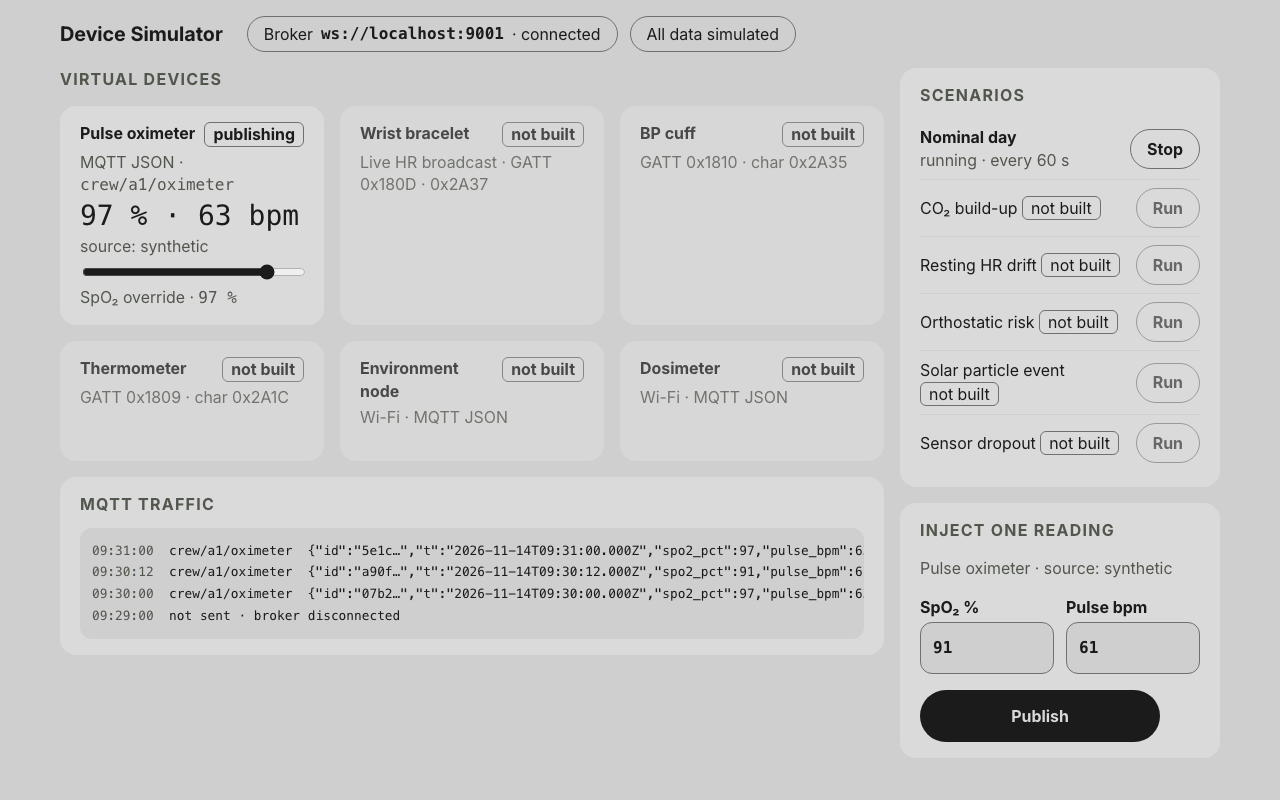
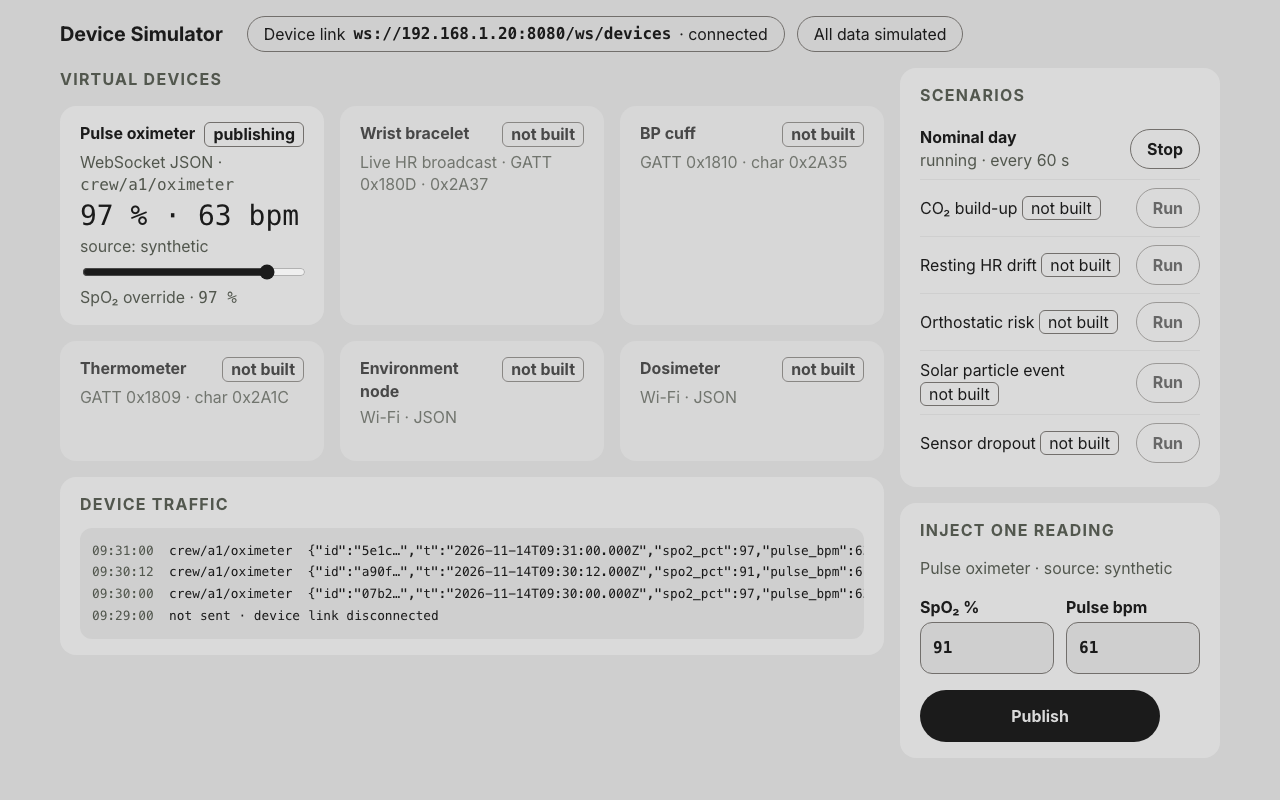
docs(simulator): mock labels for the WebSocket device link (#25)

diff --git a/ideas/mockups/src/11-simulator-oximeter.html b/ideas/mockups/src/11-simulator-oximeter.html
@@ -31,7 +31,7 @@
 <div class="sim">
   <div class="top">
     <h1>Device Simulator</h1>
-    <span class="pill">Broker <b class="num">ws://localhost:9001</b> · connected</span>
+    <span class="pill">Device link <b class="num">ws://192.168.1.20:8080/ws/devices</b> · connected</span>
     <span class="pill">All data simulated</span>
   </div>
   <div class="cols">
@@ -40,7 +40,7 @@
       <div class="devices">
         <section class="card dev">
           <h3>Pulse oximeter <span class="tag">publishing</span></h3>
-          <div class="muted-s">MQTT JSON · <span class="num">crew/a1/oximeter</span></div>
+          <div class="muted-s">WebSocket JSON · <span class="num">crew/a1/oximeter</span></div>
           <div class="value">97 % · 63 bpm</div>
           <div class="muted-s">source: synthetic</div>
           <input class="slider" type="range" min="80" max="100" value="97" aria-label="SpO₂ override">
@@ -49,15 +49,15 @@
         <section class="card dev dev--off"><h3>Wrist bracelet <span class="tag">not built</span></h3><div class="muted-s">Live HR broadcast · GATT 0x180D · 0x2A37</div></section>
         <section class="card dev dev--off"><h3>BP cuff <span class="tag">not built</span></h3><div class="muted-s">GATT 0x1810 · char 0x2A35</div></section>
         <section class="card dev dev--off"><h3>Thermometer <span class="tag">not built</span></h3><div class="muted-s">GATT 0x1809 · char 0x2A1C</div></section>
-        <section class="card dev dev--off"><h3>Environment node <span class="tag">not built</span></h3><div class="muted-s">Wi-Fi · MQTT JSON</div></section>
-        <section class="card dev dev--off"><h3>Dosimeter <span class="tag">not built</span></h3><div class="muted-s">Wi-Fi · MQTT JSON</div></section>
+        <section class="card dev dev--off"><h3>Environment node <span class="tag">not built</span></h3><div class="muted-s">Wi-Fi · JSON</div></section>
+        <section class="card dev dev--off"><h3>Dosimeter <span class="tag">not built</span></h3><div class="muted-s">Wi-Fi · JSON</div></section>
       </div>
       <section class="card">
-        <h2 class="card-heading">MQTT traffic</h2>
+        <h2 class="card-heading">Device traffic</h2>
         <div class="log"><span class="k">09:31:00</span>  crew/a1/oximeter  {"id":"5e1c…","t":"2026-11-14T09:31:00.000Z","spo2_pct":97,"pulse_bpm":63,"src":"synthetic"}
 <span class="k">09:30:12</span>  crew/a1/oximeter  {"id":"a90f…","t":"2026-11-14T09:30:12.000Z","spo2_pct":91,"pulse_bpm":61,"src":"synthetic"}
 <span class="k">09:30:00</span>  crew/a1/oximeter  {"id":"07b2…","t":"2026-11-14T09:30:00.000Z","spo2_pct":97,"pulse_bpm":63,"src":"synthetic"}
-<span class="k">09:29:00</span>  not sent · broker disconnected</div>
+<span class="k">09:29:00</span>  not sent · device link disconnected</div>
       </section>
     </div>
     <div class="stack">
